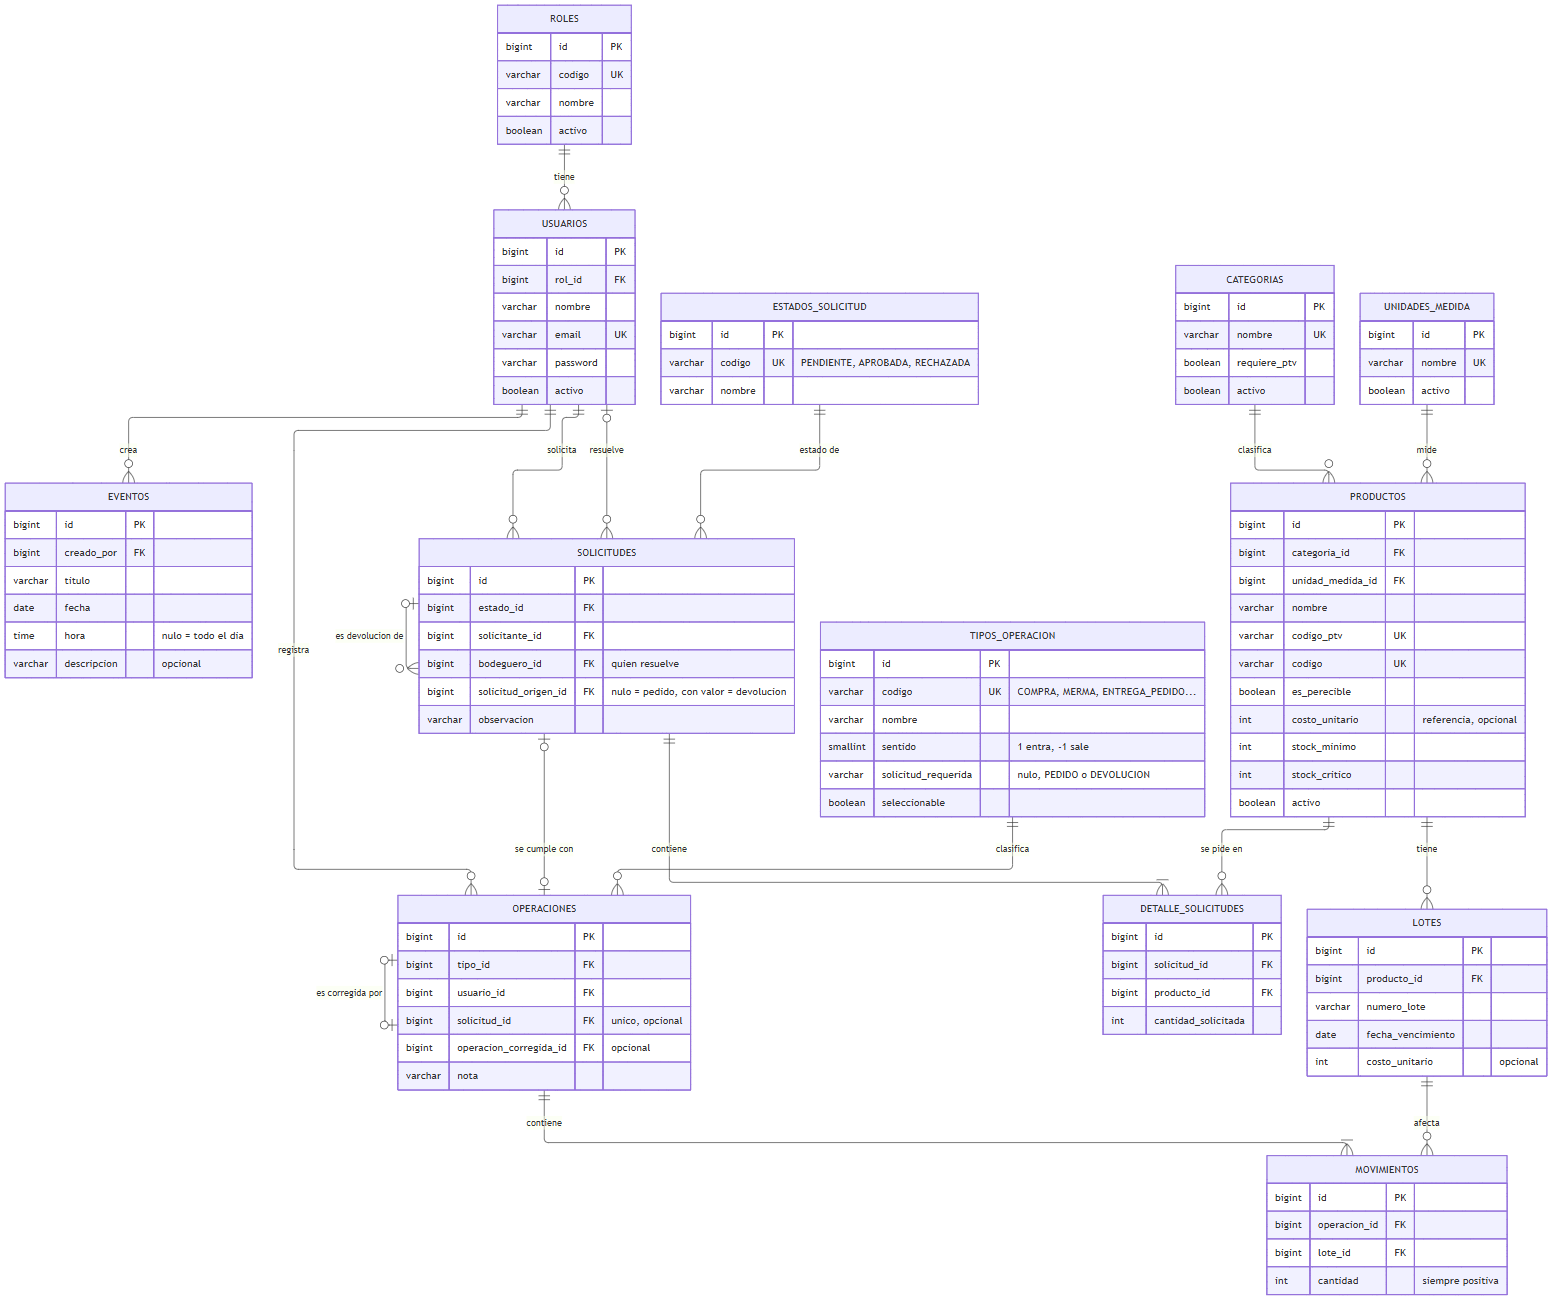
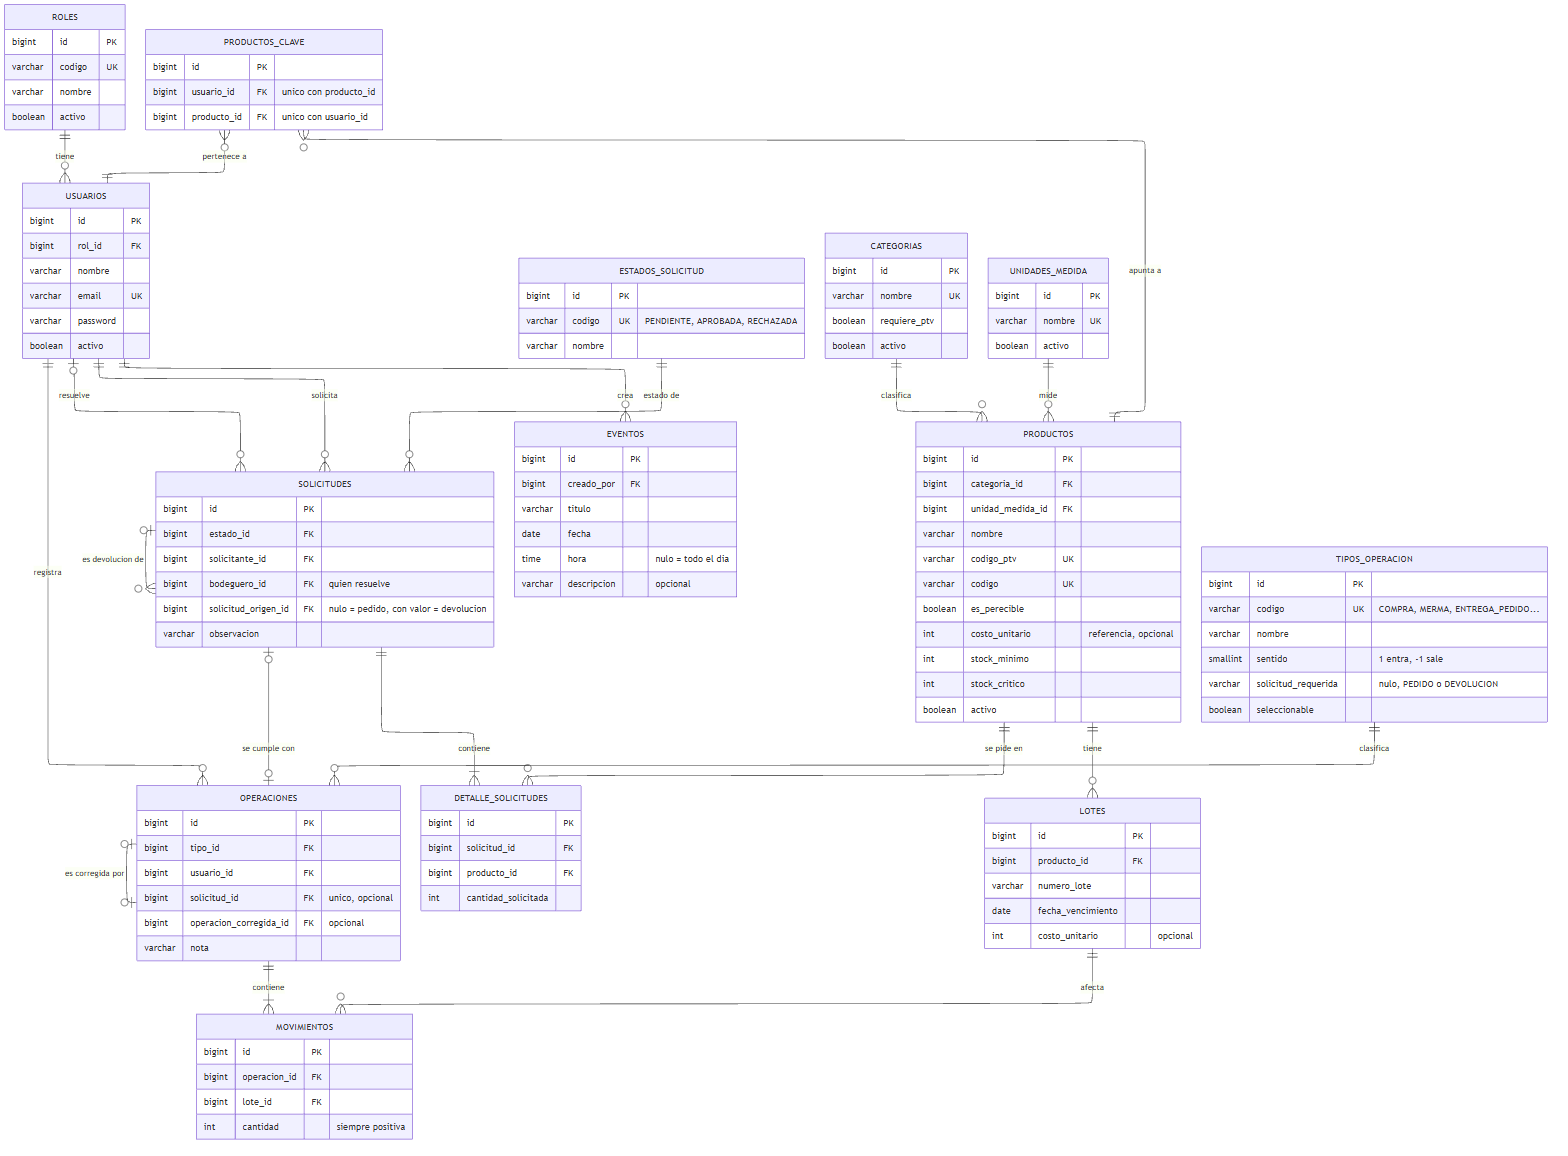
docs: agrega productos_clave al modelo de datos y al diagrama entidad-relación

diff --git a/FASE 2/EVIDENCIAS PROYECTO/EVIDENCIAS DE SISTEMA/BASE DE DATOS/07-MODELO-DE-DATOS.md b/FASE 2/EVIDENCIAS PROYECTO/EVIDENCIAS DE SISTEMA/BASE DE DATOS/07-MODELO-DE-DATOS.md
@@ -1,15 +1,15 @@
 # Modelo de datos — Smart RDP
 
 > Proyecto de Título PTY4614-002D · Equipo 3 · Duoc UC, Sede San Bernardo
-> Versión: modelo vigente: libro de operaciones y movimientos · 08-11-2026
+> Versión: modelo vigente: libro de operaciones y movimientos, con productos clave del panel de analítica (V4) · 26-11-2026
 
 ## 1. Propósito y fuente
 
 Este documento describe el modelo de datos relacional de Smart RDP: el diagrama entidad-relación, el diccionario de datos de cada tabla y las reglas de integridad.
 
-**Fuente.** El esquema se define en `backend/src/main/resources/db/migration/` (migraciones de Flyway: `V1__esquema.sql`, `V2__blindaje_libro_y_catalogos.sql` y `V3__eventos.sql`) y se contrastó con la base de desarrollo (PostgreSQL 18, base `smartrdp`) y con las entidades JPA del backend (`backend/src/main/java/com/smartrdp/backend`). Hibernate solo **valida** que las entidades coincidan con ese esquema (`spring.jpa.hibernate.ddl-auto=validate`); no crea ni modifica tablas. Las reglas de integridad que cruzan tablas las garantizan triggers de PostgreSQL definidos en la misma migración. La tabla `eventos` (V3) es una agenda y no lleva triggers ni auditoría.
+**Fuente.** El esquema se define en `backend/src/main/resources/db/migration/` (migraciones de Flyway: `V1__esquema.sql`, `V2__blindaje_libro_y_catalogos.sql`, `V3__eventos.sql` y `V4__productos_clave.sql`) y se contrastó con la base de desarrollo (PostgreSQL 18, base `smartrdp`) y con las entidades JPA del backend (`backend/src/main/java/com/smartrdp/backend`). Hibernate solo **valida** que las entidades coincidan con ese esquema (`spring.jpa.hibernate.ddl-auto=validate`); no crea ni modifica tablas. Las reglas de integridad que cruzan tablas las garantizan triggers de PostgreSQL definidos en la misma migración. Las tablas `eventos` (V3, una agenda) y `productos_clave` (V4, una preferencia de cada usuario para el panel de analítica) no son registros contables: no llevan triggers ni auditoría.
 
-**Cómo leer el diagrama.** La notación es de pata de gallo (crow's foot): `||` exactamente uno, `|o` cero o uno, `o{` cero o muchos, `|{` uno o muchos. Para no recargar el diagrama se omiten las columnas comunes `created_at` y `updated_at` (ver sección 3). El stock no es una columna de ninguna tabla: se calcula con vistas a partir del libro de operaciones y movimientos (ver 3.15).
+**Cómo leer el diagrama.** La notación es de pata de gallo (crow's foot): `||` exactamente uno, `|o` cero o uno, `o{` cero o muchos, `|{` uno o muchos. Para no recargar el diagrama se omiten las columnas comunes `created_at` y `updated_at` (ver sección 3). El stock no es una columna de ninguna tabla: se calcula con vistas a partir del libro de operaciones y movimientos (ver 3.16).
 
 ## 2. Diagrama entidad-relación
 
@@ -24,6 +24,7 @@ erDiagram
     USUARIOS |o--o{ SOLICITUDES : resuelve
     USUARIOS ||--o{ OPERACIONES : registra
     USUARIOS ||--o{ EVENTOS : crea
+    PRODUCTOS_CLAVE }o--|| USUARIOS : "pertenece a"
 
     ESTADOS_SOLICITUD ||--o{ SOLICITUDES : "estado de"
     SOLICITUDES |o--o{ SOLICITUDES : "es devolucion de"
@@ -37,6 +38,7 @@ erDiagram
 
     LOTES ||--o{ MOVIMIENTOS : afecta
     PRODUCTOS ||--o{ LOTES : tiene
+    PRODUCTOS_CLAVE }o--|| PRODUCTOS : "apunta a"
     CATEGORIAS ||--o{ PRODUCTOS : clasifica
     UNIDADES_MEDIDA ||--o{ PRODUCTOS : mide
 
@@ -122,6 +124,11 @@ erDiagram
         date fecha
         time hora "nulo = todo el dia"
         varchar descripcion "opcional"
+    }
+    PRODUCTOS_CLAVE {
+        bigint id PK
+        bigint usuario_id FK "unico con producto_id"
+        bigint producto_id FK "unico con usuario_id"
     }
     CATEGORIAS {
         bigint id PK
@@ -244,7 +251,7 @@ Todas las tablas de negocio (no las de auditoría) heredan de `BaseEntity` estas
 | `es_perecible` | boolean | No | `true` si sus lotes deben informar fecha de vencimiento. |
 | `stock_minimo` | integer | No | Umbral bajo el cual el estado de stock pasa a `BAJO`. |
 | `stock_critico` | integer | No | Umbral bajo el cual pasa a `CRITICO`; no puede superar al mínimo. |
-| `costo_unitario` | integer | Sí | Costo de referencia en pesos: se sugiere al ingresar un lote. La valorización usa el costo del lote. |
+| `costo_unitario` | integer | Sí | Costo de referencia en pesos: se sugiere al ingresar un lote (y lo toma el lote si no se indica otro, salvo en las compras, que exigen el suyo). La valorización usa el costo del lote. |
 | `activo` | boolean | No | `false` si el producto se desactivó (no se borra). |
 
 ### 3.9 `lotes`
@@ -254,7 +261,7 @@ Todas las tablas de negocio (no las de auditoría) heredan de `BaseEntity` estas
 | `producto_id` | bigint | No | Producto al que pertenece la tanda. Clave foránea a `productos.id`. |
 | `numero_lote` | character varying(50) | Sí | Número de lote del proveedor, si lo hay. |
 | `fecha_vencimiento` | date | Sí | Fecha de vencimiento; nula en productos no perecibles. El FEFO descuenta primero el que vence antes. |
-| `costo_unitario` | integer | Sí | Costo en pesos de esta tanda; nulo si se desconoce. Un lote no se modifica después de creado. |
+| `costo_unitario` | integer | Sí | Costo en pesos de esta tanda. La base lo admite nulo, pero el backend lo exige en las compras (`COMPRA`): el panel de analítica lo usa para valorizar el consumo, las pérdidas y el historial de precios de compra. En las demás entradas, si no se indica, el lote toma el costo de referencia del producto. Un lote no se modifica después de creado. |
 
 ### 3.10 `solicitudes`
 
@@ -304,7 +311,23 @@ Agenda compartida del calendario de los bodegueros (migración `V3`). Es una age
 | `descripcion` | character varying(500) | Sí | Detalle opcional. |
 | `creado_por` | bigint | No | Bodeguero que agendó el evento. Clave foránea a `usuarios.id`; solo lo identifica, no limita quién puede editarlo. |
 
-### 3.15 Vistas de inventario
+### 3.15 `productos_clave`
+
+Lista personal de productos que cada usuario sigue de cerca en el panel de analítica (migración `V4`). Cada fila dice «este usuario marcó este producto como clave»; la lista de un usuario es independiente de la de los demás. Es una preferencia, no un registro contable: no tiene Envers ni triggers, y se reemplaza completa cada vez que el usuario guarda su selección (el backend borra las filas de ese usuario y inserta las nuevas, con un máximo de 50 productos). El panel la usa en el bloque «productos clave por usuario» y para elegir qué productos seguir; al listarla, el backend omite los productos desactivados, aunque su fila siga existiendo.
+
+| Columna | Tipo | ¿Nulo? | Descripción |
+|---|---|---|---|
+| `usuario_id` | bigint | No | Usuario dueño de la lista. Clave foránea a `usuarios.id` con `ON DELETE CASCADE`. |
+| `producto_id` | bigint | No | Producto marcado como clave. Clave foránea a `productos.id` con `ON DELETE CASCADE`. |
+
+Además de las columnas comunes (`id`, `created_at`, `updated_at`, ver 3.1):
+
+- **Unicidad.** (`usuario_id`, `producto_id`) es único (`uq_productos_clave_usuario_producto`): un producto aparece una sola vez en la lista de un usuario.
+- **Índice.** `ix_productos_clave_usuario` sobre `usuario_id`, para traer la lista de un usuario.
+- **Borrado en cascada.** Si se borrara el usuario o el producto, desaparecería la fila. En la práctica no ocurre, porque ni los usuarios ni los productos se borran (se desactivan, ver sección 4); la cascada solo evita filas huérfanas.
+- **Cardinalidad.** Un usuario tiene cero o muchas filas y un producto puede ser clave de cero o muchos usuarios: la tabla resuelve la relación muchos a muchos entre `usuarios` y `productos`.
+
+### 3.16 Vistas de inventario
 
 El stock **no se guarda**: se calcula con estas vistas, que son la única fuente de verdad.
 
@@ -313,7 +336,7 @@ El stock **no se guarda**: se calcula con estas vistas, que son la única fuente
 - **`solicitado_vs_entregado`** — Por solicitud y producto: lo solicitado, lo entregado y si es un agregado (entregado sin haber sido pedido). Columnas: `solicitud_id`, `producto_id`, `cantidad_solicitada`, `cantidad_entregada`, `agregado`.
 - **`devolvible_lote`** — Por pedido y lote: cuánto se entregó, cuánto se devolvió y cuánto aún se puede devolver. Columnas: `pedido_id`, `lote_id`, `producto_id`, `movimiento_id`, `entregado`, `devuelto`, `devolvible`.
 
-### 3.16 Tablas de auditoría (Envers)
+### 3.17 Tablas de auditoría (Envers)
 
 `revinfo` guarda una fila por revisión (marca de tiempo y correo de quien la hizo); `solicitudes_aud` y `usuarios_aud` copian las columnas auditadas de la tabla de negocio más `rev` y `revtype` (0 alta, 1 modificación, 2 baja).
 
@@ -345,12 +368,14 @@ Criterio: lo que cabe en una fila lo garantiza la base con `CHECK`, `UNIQUE` o c
 | El libro y los catálogos no se vacían con `TRUNCATE`; solo el repoblado de desarrollo lo habilita (`SET smartrdp.permitir_truncate = 'on'`). | Triggers `BEFORE TRUNCATE` (V2). |
 | Las salidas descuentan por FEFO: primero el lote que vence antes. | Backend (`MovimientoService`). |
 | En un pedido el bodeguero entrega, de cada producto solicitado, hasta lo que se pidió (o menos), y puede sumar otros productos que no se pidieron: esos son los «agregados». | Backend y vista `solicitado_vs_entregado`. |
-| «Productos más usados» (Analítica) cuenta las salidas netas de devoluciones: por producto, lo que sale (sentido −1) menos lo devuelto (`DEVOLUCION`), sin correcciones ni operaciones corregidas; los productos con neto 0 no aparecen. | Backend (`AnaliticaService`). |
-| No se borran productos, categorías, unidades ni usuarios: se desactivan con `activo = false`. | Backend. |
+| El panel de analítica calcula el consumo con el libro: entregas de pedidos (`ENTREGA_PEDIDO`) menos devoluciones (`DEVOLUCION`), valorizadas con el costo del lote; las mermas y los vencimientos se cuentan aparte como pérdidas. No cuentan las correcciones ni las operaciones que una corrección anuló. Los productos con neto 0 o negativo no aparecen en «productos más usados». Las líneas cuyo lote no tiene costo valen 0 y se informan como «sin costo». | Backend (`PanelRepository` y `PanelService`). |
+| Una compra exige el costo unitario de cada línea; sin él no se puede seguir el precio de compra de un producto. | Backend (`MovimientoService`); en la base `lotes.costo_unitario` admite nulo. |
+| Los productos clave de un usuario no se repiten y no pasan de 50; al guardar, la lista se reemplaza completa. | Base (`uq_productos_clave_usuario_producto`) y backend (`ProductoClaveService`). |
+| No se borran productos, categorías, unidades ni usuarios: se desactivan con `activo = false`. | Backend. Las filas de `productos_clave` caerían en cascada si alguno se borrara. |
 
 ## 5. Valores permitidos
 
-Los valores viven en tablas de catálogo (cargadas por la migración `V1`), no en `CHECK` de texto.
+Los valores viven en tablas de catálogo (cargadas por la migración `V1`), no en `CHECK` de texto. `productos_clave` (V4) no es un catálogo ni lleva valores permitidos.
 
 | Catálogo | Código | Significado |
 |---|---|---|
